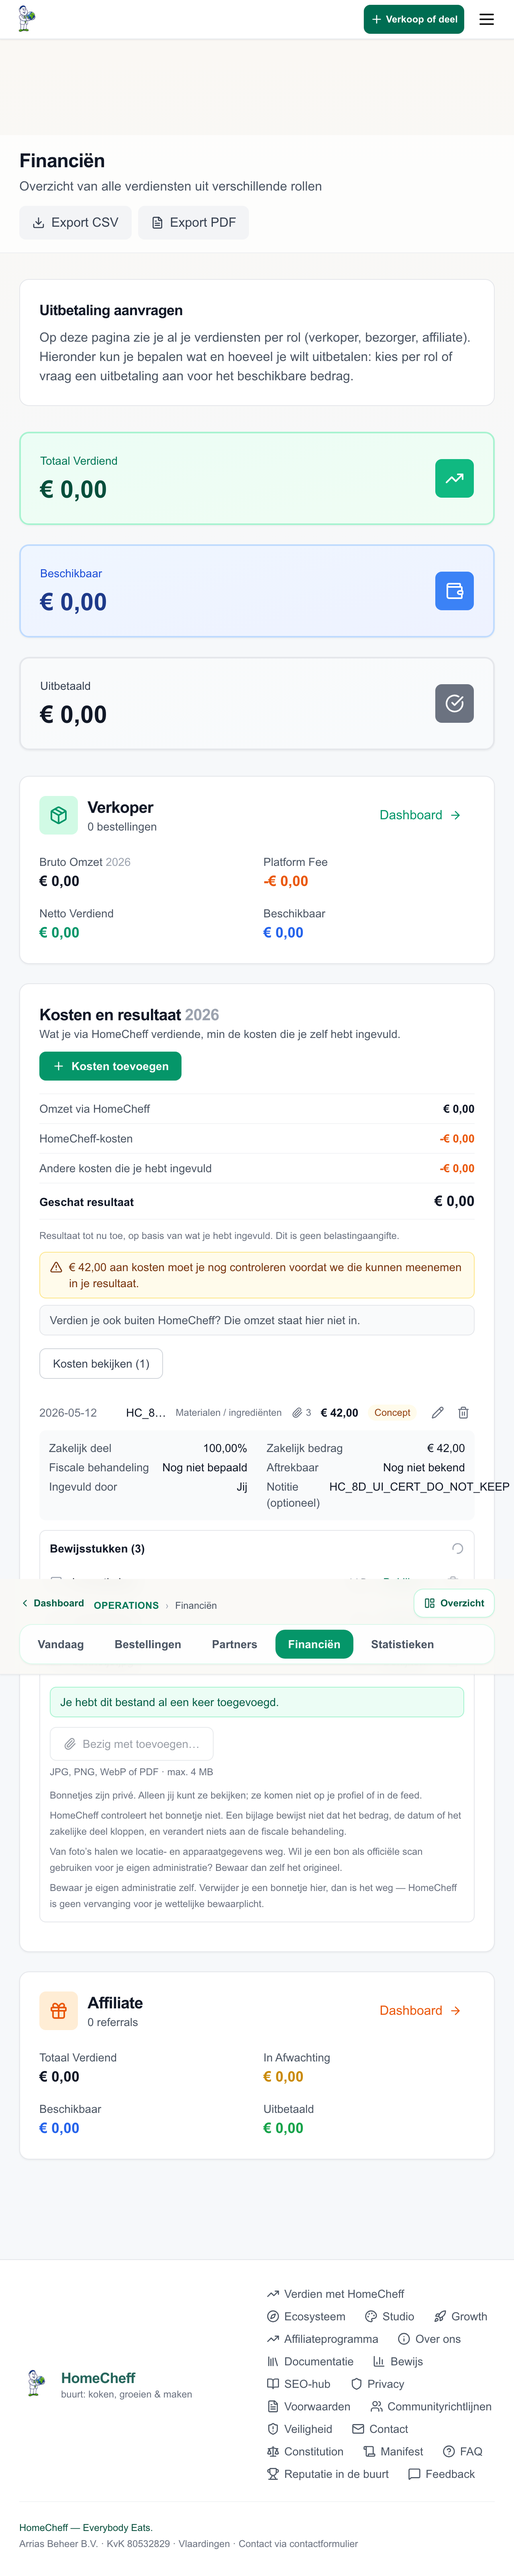
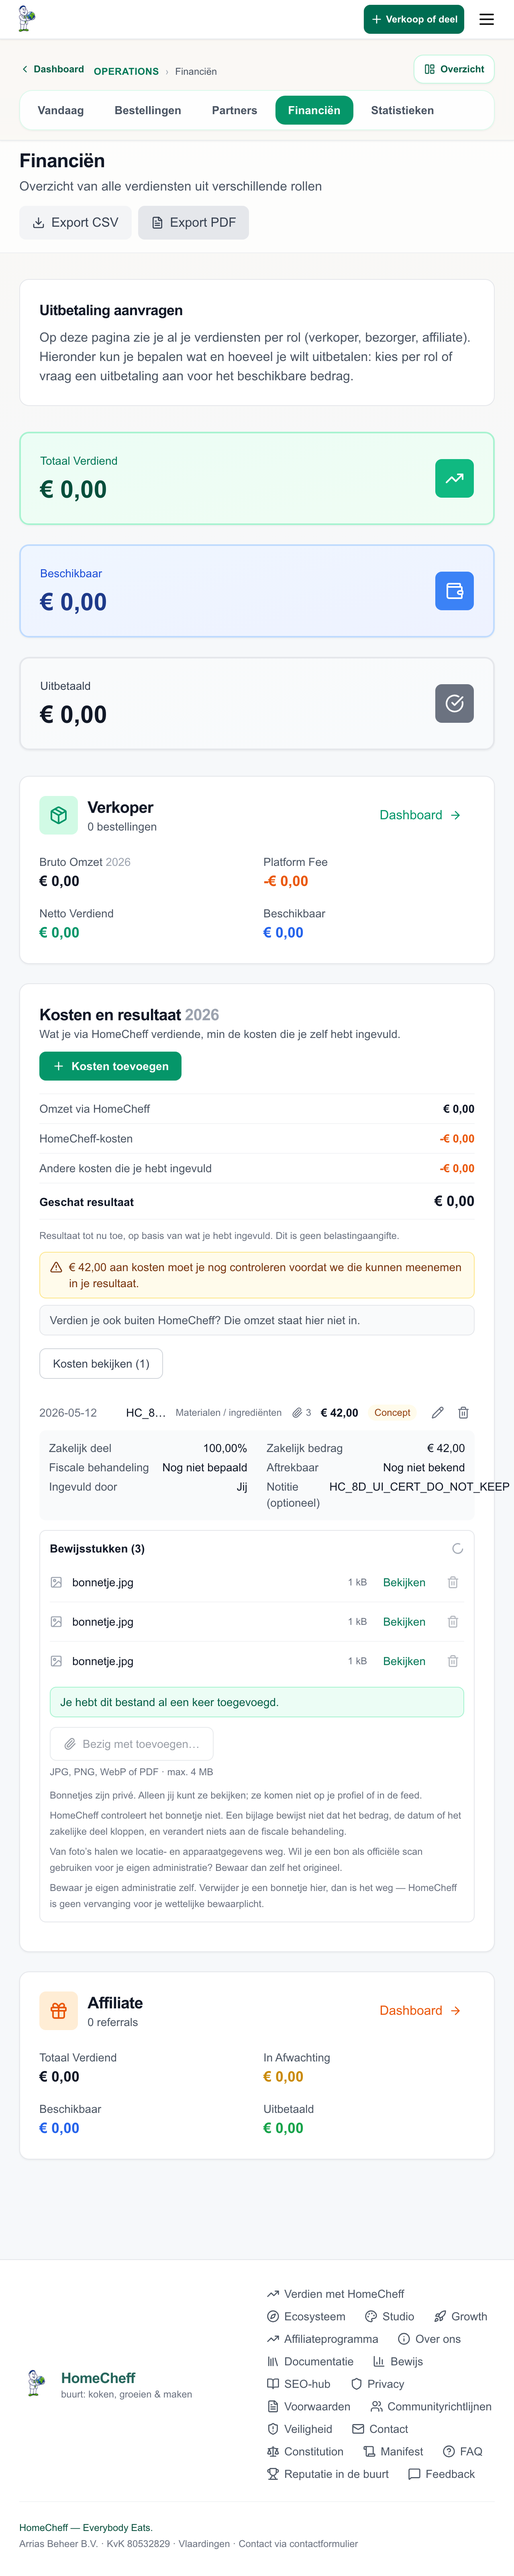
Phase 8D: certification report and production evidence
36/36 production checks, 542/542 fixtures, all four viewports, and the
retention research behind the no-expiry policy.

diff --git a/docs/audits/receipt-vault-8d/HOMECHEFF_PRIVATE_RECEIPT_VAULT_CERTIFICATION.md b/docs/audits/receipt-vault-8d/HOMECHEFF_PRIVATE_RECEIPT_VAULT_CERTIFICATION.md
@@ -1,0 +1,370 @@
+# Phase 8D — Private Receipt Vault
+
+Private financial evidence storage, attached to seller expenses.
+
+```
+STARTING_SHA        = ff3111ef75b55546e93728d96d8611d036c91ad6
+COMMIT_SHA          = 244530a06f7a8bface96fad0bfd6fbc0a7e9541b
+DEPLOYMENT_ID       = dpl_DrpSvDFXJaeFBcUNxEJxNoim82C5
+DEPLOYED_SHA_MATCH  = YES (homecheff.eu serves this deployment)
+```
+
+---
+
+## 1. Pre-flight — storage as it stood
+
+Re-audited rather than trusting the 8A findings.
+
+```
+CURRENT_PUBLIC_STORAGE          = Vercel Blob, access: 'public', via BLOB_READ_WRITE_TOKEN
+PRIVATE_STORAGE_CAPABILITY      = yes, @vercel/blob >= 2.3 (project was on 2.0.1, raised to 2.8.0)
+EXISTING_SIGNED_URL_SUPPORT     = none in use
+EXISTING_OWNER_BOUND_STORAGE    = none; object paths encode filenames, not owners
+EXISTING_OBJECT_DELETION        = partial, per feature
+ACCOUNT_DELETION_STORAGE_CLEANUP = did not remove blob objects
+```
+
+Every existing upload path — profile photos, listing media, Studio — writes public
+objects whose only protection is an unguessable URL. None of it was extended.
+
+## 2. Architecture
+
+```
+STORAGE_PROVIDER    = Vercel Blob, separate store "homecheff-receipt-vault" (fra1, EU)
+ACCESS_MODEL        = access: 'private' on every call
+OBJECT_VISIBILITY   = private; anonymous GET of the object URL returns 403
+DELIVERY_MODEL      = bytes streamed through an authenticated HomeCheff route
+URL_EXPIRY          = n/a by design — no URL is ever issued
+AUTHORIZATION_LAYER = signed session -> ownerUserId in the WHERE clause
+```
+
+The vault has its own token, `RECEIPT_VAULT_BLOB_READ_WRITE_TOKEN`. `lib/finance/evidence/vault-store.ts`
+is the only module that may touch it and refuses to start without it, so a
+misconfiguration cannot silently route a receipt into the public store.
+
+Creating the store overwrote the shared `BLOB_READ_WRITE_TOKEN` in `.env.local`
+and in all three Vercel environments, which would have pointed every public
+upload at the private store. Corrected: the private token lives under its own
+name and the shared variable was restored.
+
+No signed URL is used at all. A private blob URL answers 403 without
+credentials, but handing one to a browser would still create a permanent
+identifier for a financial document, so it never leaves the server.
+
+## 3–6. Domain model
+
+```
+EVIDENCE_MODEL      = SellerFinancialEvidence
+EXPENSE_LINK_MODEL  = linkedExpenseId, nullable, ON DELETE SET NULL
+MULTIPLE_FILES      = YES, up to 10 per expense
+```
+
+`id, ownerUserId, kind, status, objectKey, storeNamespace, originalFilename,
+mimeType, sizeBytes, sha256, metadataStripped, linkedExpenseId, uploadedAt,
+updatedAt, deletedAt, purgeAfter, purgedAt, purgeAttempts, lastPurgeError`
+
+`kind` is `RECEIPT | INVOICE | OTHER_SUPPORTING_DOCUMENT`; the UI only produces
+`RECEIPT`, but the model does not have to change for the others.
+
+`status` is the lifecycle: `UPLOADING → STORED → PENDING_PURGE → PURGED`, with
+`MISSING` for a row whose object turns out not to exist.
+
+Ownership is enforced as a query constraint, never as a comparison after a read,
+so there is no window between check and use and nothing to confuse. Removing
+evidence never touches the `SellerExpense`.
+
+## 7–12. File handling
+
+```
+FILE_TYPES            = image/jpeg, image/png, image/webp, application/pdf
+MAX_SIZE              = 4 MB, enforced server-side, shown in the UI before upload
+MAGIC_BYTE_VALIDATION = YES; declared type must match the bytes
+EXIF_POLICY           = stripped for JPEG/PNG/WebP; PDFs stored byte-for-byte
+MALWARE_POLICY        = allowlist + magic bytes + size + hostile delivery headers
+HASH_POLICY           = SHA-256 over the stored bytes; duplicate warning within one owner only
+```
+
+Rejected: HTML, SVG, scripts, executables, archives, truncated files, and
+polyglots whose head looks like markup. Filenames never reach the object key —
+keys are `ev/{uuid}`, containing no user, expense, filename or extension. The
+original name is sanitised for display only, with path separators flattened.
+
+**EXIF.** Stripping is real and verified: a canary string embedded in the APP1,
+comment and text chunks is absent from the bytes that come back out of
+production. JPEG APP1–APP15 and COM, PNG `tEXt/zTXt/iTXt/eXIf/tIME`, and WebP
+`EXIF`/`XMP` chunks are removed, and all three formats still decode afterwards.
+
+The honest consequence is recorded rather than glossed over: the Belastingdienst
+only accepts a scan in place of a paper original if it is a complete and faithful
+reproduction including its authenticity features, so a stripped raster in this
+vault is **not** guaranteed to qualify as a substitute for the original. PDFs are
+untouched and do not have this problem. Sellers are told this in the panel.
+
+**Malware.** No scanning infrastructure exists in this stack and none was
+invented. There is no "virus scanned" status anywhere.
+
+## 13–15. Flows
+
+Upload: expense → *Bonnetje toevoegen* → file picker or camera → attached. Never
+required; an expense exists perfectly well without one.
+
+View: authenticated request, ownership check, streamed response. Delivered with
+`Cache-Control: private, no-store`, `X-Content-Type-Options: nosniff`,
+`Content-Security-Policy: default-src 'none'; sandbox`, `Referrer-Policy: no-referrer`,
+`Cross-Origin-Resource-Policy: same-origin`, `Vary: Cookie`. PDFs go out as
+`Content-Disposition: attachment` and are never rendered inside HomeCheff's origin.
+
+Delete: the row is marked `PENDING_PURGE` first, which makes the bytes
+unreachable through every route immediately, and the object is removed second. A
+failure in the second step is therefore a storage-cleanup problem and never an
+access-control one. `deleteVaultObject` treats an already-absent object as
+success, so retries converge; `/api/cron/evidence-purge` runs every 30 minutes
+to retry failures and to sweep uploads that never completed.
+
+## 16–18. Lifecycle
+
+```
+EXPENSE_DELETE_POLICY = attached evidence enters the purge lifecycle with the expense
+EVIDENCE_DELETE_POLICY = unreadable immediately, object removed, row ends PURGED
+ACCOUNT_DELETE_POLICY  = all of that owner's evidence purged; objects removed outside the transaction
+RETENTION_POLICY       = kept only while the seller keeps it — no expiry, no silent retention
+                         NEEDS_LEGAL_REVIEW on offering a bewaarplicht-grade archive mode
+```
+
+`performUserAccountDeletion` marks the rows inside its transaction and purges the
+objects after it commits. Admin hard-delete reads the object keys *before* its
+transaction, because the rows cascade away with the user and the keys would
+otherwise be lost — the one place where best-effort is unavoidable, handled
+deliberately.
+
+Retention research is written up in `docs/architecture/RECEIPT-VAULT-RETENTION.md`.
+The short version: the 7-year `bewaarplicht` binds the entrepreneur, not a
+platform holding a copy, and HomeCheff has no retention basis of its own over a
+seller's supplier receipt. So nothing is kept after the seller deletes it.
+`RECEIPT_VAULT_PURGE_GRACE_HOURS` exists to introduce a recovery window without a
+code change; it does not delay unreadability.
+
+## 19–21. Evidence is not a fiscal fact
+
+```
+RECEIPT_CHANGES_DEDUCTIBILITY       = NO
+RECEIPT_CHANGES_INVESTMENT          = NO
+CONFIRMED_RECEIPT_SEMANTICS_PRESERVED = YES
+```
+
+`lib/finance/seller-expense.ts` has no idea evidence exists. Verified in
+production on a live expense: after attaching a JPEG and a PDF, `fiscalTreatment`
+was still `UNKNOWN`, `confirmationStatus` still `DRAFT`, `source` still
+`USER_PROVIDED`, amount and business-use unchanged, and the whole-year fiscal
+derivation was byte-identical before and after.
+
+`CONFIRMED_RECEIPT` keeps its stronger meaning — human-confirmed extraction — and
+is never set by attaching a file. Phase 8D's concept is only "the seller attached
+something". The panel says so: HomeCheff does not check the receipt, and an
+attachment proves nothing about the amount, the date or the business share.
+
+## 22–24. No OCR, no analytics, no leaky logs
+
+No OCR, no AI, no extraction, no Studio handoff. No external provider receives
+receipt bytes. Asserted by source-level fixtures, not just by intent.
+
+No analytics events were added. The 8D modules contain no analytics call of any
+kind.
+
+Logging carries opaque evidence IDs and error *names* only — never messages,
+filenames, object keys, URLs or bytes.
+
+## 25–29. Security results
+
+```
+OWNER_AUTHORIZATION   = server-side, from the signed session, never from input
+CROSS_OWNER_LINK_BLOCK = PASS (404)
+LOGGED_OUT_BLOCK      = PASS
+DIRECT_OBJECT_ACCESS  = PASS — anonymous GET of the real object URL returns 403
+PUBLIC_MEDIA_LEAK     = NO
+URL_SECRET_LEAK       = NO
+CACHE_ACCOUNT_SWITCH  = PASS
+CACHE_POLICY          = private, no-store, must-revalidate, Vary: Cookie
+```
+
+The direct-object test used a genuine uploaded object: its key was read from the
+database, its real storage URL resolved with the vault token, and both that URL
+and its `?download=1` form were then fetched with no credentials. Both returned
+**403**. After deletion the same URL still did not return the bytes.
+
+Leak sweep over feed, public profile, sitemap and search for the evidence IDs,
+the object key and the filenames: nothing. The page source contains no
+`.private.blob.vercel-storage.com` address, no blob token and no object key. The
+public store does appear in the page — it serves profile and listing images — and
+that is expected and unrelated.
+
+Account switch: seller A fetched their receipt (200), cookies cleared, seller B
+signed in, same URL returned **404**, and a `cache: 'force-cache'` request also
+returned 404.
+
+Wrong owner is blocked separately for view, download, delete, list and link, and
+the owner's own access is unaffected by all the rejected attempts.
+
+## 30–31. Fixtures
+
+`scripts/test-evidence-vault-8d.ts` — **542/542 checks pass**.
+
+```
+JPEG = PASS    PNG = PASS    WEBP = PASS    PDF = PASS
+WRONG_MIME = REJECTED (415)  SVG = REJECTED (415)  OVERSIZE = REJECTED (413)
+PATH_TRAVERSAL = SAFE        WRONG_OWNER = BLOCKED (404)
+LOGGED_OUT = BLOCKED         DELETED = BLOCKED
+MULTIPLE_FILES = PASS        DUPLICATE = stored, flagged to that owner only
+STORAGE_FAILURE_RECOVERY = PASS
+```
+
+Storage-failure cases are exercised, not described: upload succeeding while the
+database write fails, a row whose object is missing, a failing object delete, and
+repeated deletes. Nothing is orphaned silently — a row that loses its object
+becomes `MISSING`, a failed purge records its attempt count and is retried.
+
+Account deletion is proven on a disposable account that touches no Stripe object.
+
+## 32–34. Interface
+
+```
+DESKTOP = PASS   MOBILE_390 = PASS   LANDSCAPE = PASS   ZOOM_200 = PASS
+BOTTOM_NAV = PASS
+```
+
+The expense row grows a paperclip with a count; expanding it reveals the drawer.
+Nothing here resembles document management software.
+
+All four viewports verified on production by real browser: no horizontal
+overflow, the size limit stated before upload, `aria-modal` viewer with an
+accessible name, focus landing on the close control, Escape closing it, error
+and status messages in live regions, and the delete confirmation naming the file.
+
+Bottom-nav clearance was hit-tested with `elementFromPoint`, not bounding boxes,
+which is what caught the defect described below.
+
+## 35. Regression
+
+```
+PHASE_8C_REGRESSION   = PASS
+PHASE_8B_REGRESSION   = PASS
+PHASE_8B2_REGRESSION  = PASS
+DAC7_REGRESSION       = PASS
+VERDIENCHECK_REGRESSION = PASS
+SETTLEMENT/REFUND/DISPUTE/MULTI-RECIPIENT = PASS
+BUILD                 = PASS
+MIGRATION             = clean, no drift, no unrelated DDL
+```
+
+Full suite compared against a clean checkout of the starting commit in a separate
+worktree: **48 suites failed at the starting commit, 47 with this work applied.**
+Nothing regressed. The 47 are pre-existing failures in the adaptive-workspace,
+orientation and final-acceptance domains, unrelated to finance, and the build
+reports the same unresolved imports behind them.
+
+## 36. Migration
+
+One additive migration, `20260922210000_phase_8d_private_receipt_vault`: one
+table, two enums, indexes and two foreign keys, all guarded so a re-run is
+harmless. Validated first as a transactional dry run, then applied. No historical
+migration was edited. `prisma migrate status` reports up to date and
+`migrate diff` against the live database is empty.
+
+## 37–38. Production certification
+
+Ran against `https://homecheff.eu` on a controlled seller. **36/36 checks pass.**
+
+Created: one `SellerExpense` and four evidence objects. Created: **zero** orders,
+transactions, Stripe charges, refunds or transfers. All content synthetic.
+
+```
+OBJECT_PUBLIC        = NO
+PERMANENT_PUBLIC_URL = NO
+OWNER_VIEW           = PASS
+WRONG_OWNER_VIEW     = BLOCKED
+LOGGED_OUT_VIEW      = BLOCKED
+DELETED_VIEW         = BLOCKED
+PUBLIC_MEDIA_LEAK    = NO
+ANALYTICS_LEAK       = NO
+LOG_SECRET_LEAK      = NO
+
+PRODUCTION_UPLOAD       = PASS   PRODUCTION_PRIVATE_VIEW = PASS
+PRODUCTION_WRONG_OWNER  = PASS   PRODUCTION_LOGGED_OUT   = PASS
+PRODUCTION_PDF          = PASS   PRODUCTION_DELETE       = PASS
+PRODUCTION_CLEANUP      = PASS
+```
+
+Cleanup verified rather than assumed: **0** evidence rows and **0** expenses
+remain, and the private store itself holds **0 objects**.
+
+## Defects found and fixed during certification
+
+Four, all in Phase 8D's own code, all found by testing production rather than by
+reading it.
+
+**Refetch loop.** `useTranslation` rebuilds `t` on every render, so listing it as
+a dependency of the `load` callback gave it a new identity each render and the
+effect calling it refired without end — a browser sitting on an expanded expense
+issued list requests continuously. `load` now depends on the expense id alone.
+The certification asserts the request count stays in single digits.
+
+**Bottom nav covering the upload control.** At 390×844 the browser scrolled the
+control to the bottom edge, where the fixed nav sits on top of it — the same
+class of defect Phase 8C hit. Fixed with scroll margins derived from the app
+chrome's own `--hc-bottom-nav-offset`; a bottom-only margin then pushed it under
+the top bar on a 844×390 screen, so `--hc-top-nav-height` is reserved too.
+
+**Receipt views were slow and erratic.** Measured on production, a single view
+ranged from 175 ms to nearly 13 seconds. `auth()` runs HomeCheff's session
+callback, which refetches the user and its relations on every call, and the
+owner lookup then queried the same user again: three database round trips before
+a byte moved, on a route a viewer calls once per image. The content route now
+verifies the signed session token directly and takes the id from it — the same
+credential, the same signature check, the same `ownerUserId` match on the row,
+without paying for profile data it never reads. Upload, list and delete still go
+through `auth()`.
+
+**Viewer deadlock.** The loading state I added hid the image until it loaded, and
+a `display:none` image is not fetched — so the load event that would reveal it
+never fired. The image now stays in the layout with the spinner over it.
+
+## Remaining
+
+```
+P0_REMAINING = none
+P1_REMAINING = 1
+P2_REMAINING = 2
+```
+
+**P1 — receipt reads still vary with cold starts.** The three-query authentication
+cost is gone, but a cold function plus a cold database connection still puts the
+occasional first view above a second. Nothing is broken and the viewer now shows
+its loading state honestly, but the route deserves a latency budget.
+
+**P2 — a hard database delete of an expense outside the application leaves its
+evidence stored and unlinked.** `ON DELETE SET NULL` detaches it and the sweeper
+ignores it, because its status is still `STORED`. The application never does this
+— the expense API purges evidence, proven in production — but an operator running
+raw SQL could. A periodic check for `STORED` rows with no expense would close it.
+
+**P2 — `NEXT_PUBLIC_VERCEL_BLOB_READ_WRITE_TOKEN` exists in the Vercel project.**
+Nothing references it, so nothing is inlined and the shipped client bundle
+contains no token — verified. But the `NEXT_PUBLIC_` prefix means the first line
+of code that reads it would ship a read-write storage token to every browser. It
+predates this phase and should be renamed or removed.
+
+```
+NEXT_PHASE = receipt review — extraction or human confirmation, the point at
+             which CONFIRMED_RECEIPT finally means something
+```
+
+---
+
+```
+FINAL_DECISION = HOMECHEFF_PRIVATE_RECEIPT_VAULT_PRODUCTION_CERTIFIED
+```
+
+Certified on the evidence above: the object is private in production, the only
+route to the bytes authorises every request against the signed session, and a
+wrong owner, a signed-out browser, a deleted item and a direct request to the
+real storage URL were each proven to come away with nothing.
